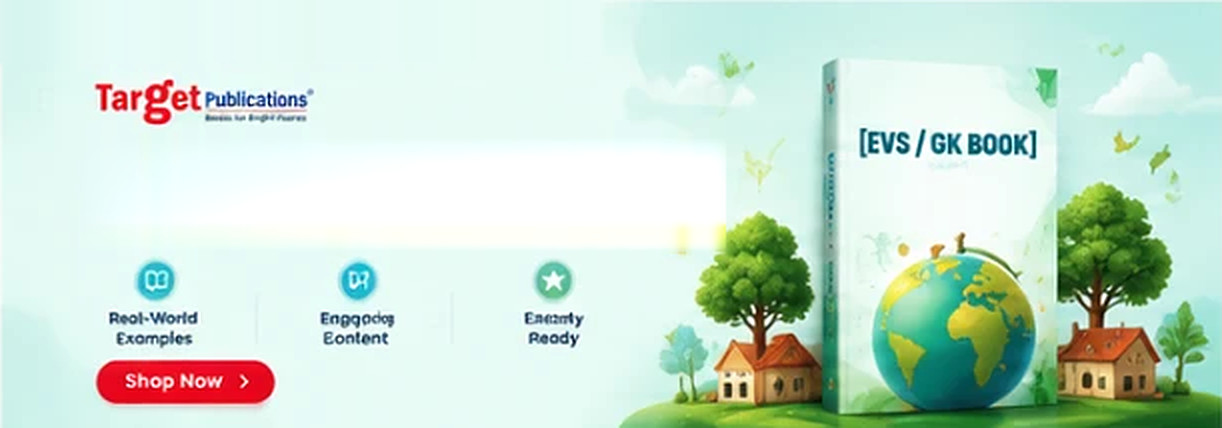
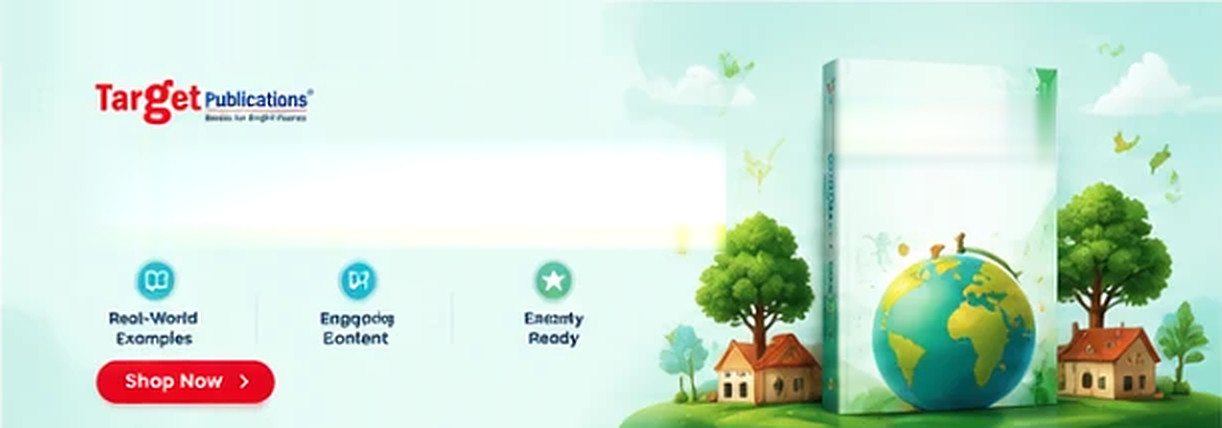
fix: real-catalogue findings (missing glyphs, kids language books, narrow covers, tall covers)

Changed region(s): [[0.6841, 0.2126, 0.8707, 0.3949]]

diff --git a/tools/prepare_templates.py b/tools/prepare_templates.py
@@ -23,11 +23,15 @@ import json
 import os
 import sys
 
-from PIL import Image, ImageFilter
+from PIL import Image, ImageDraw, ImageFilter
 
 OUT = os.path.join(os.path.dirname(os.path.abspath(__file__)), '..', 'resources', 'templates')
 SCALE = 2.0            # sheet cells are small (about 500 px wide); plates are stored at 2x
 HALO = (5, 8, 2)       # how far the patch grows left/right/top, and where its side/top edges are sampled from
+# The placeholder book carries a "[SUBJECT BOOK]" label. A product cover that is narrower than the book (a combo shot, say)
+# would leave part of it showing, so it is wiped from the plate: (left, right, top offset, bottom offset) inside the book.
+LABEL = (10, 6, 24, 60)
+LABEL_TALL = {'social-science': 74}   # its label runs to two lines
 BOOK_PAD = (2, 1)      # grow the book rectangle by this much (x, y) so no placeholder edge peeks out
 
 # key: cell in the sheet, label tab, copy zone, placeholder book
@@ -44,7 +48,9 @@ CELLS = {
     'evs-gk':         dict(cell=(1004, 450, 1617, 667), tab=(0, 0, 298, 32), zone=(46, 72, 358, 127),  book=(410, 28, 531, 210)),
 }
 # The single generic template (no label to remove); here the zone also covers the class/board pill and the tagline underline.
-MASTER = dict(key='general', zone=(180, 138, 935, 352), book=(1179, 52, 1634, 603), width=1400)
+MASTER = dict(key='general', zone=(180, 138, 935, 352), book=(1179, 52, 1634, 603), width=1400,
+              # its book cover is full of placeholders (board logo, edition, [SUBJECT NAME], [PART]): turn the face into a plain page
+              face=(1200, 56, 1630, 586))
 
 
 def near_white(p):
@@ -77,22 +83,23 @@ def lerp(a, b, t):
     return tuple(a[i] + (b[i] - a[i]) * t for i in range(3))
 
 
-def fill_patch(im, x0, y0, x1, y1):
+def fill_patch(im, x0, y0, x1, y1, halo=None):
     """Replace a rectangle by a Coons patch of its four surrounding edges (smooth gradient, no text).
 
     The lettering sits in a soft halo, so the left, right and top edges are sampled a few pixels outside it; the bottom
     edge cannot move far because the benefit icons start right below the zone.
     """
+    HALO_ = halo or HALO
     w, h = im.size
-    x0, y0, x1, y1 = x0 - HALO[0], y0 - HALO[2], x1 + HALO[0], y1
-    x0, y0 = max(HALO[0] + 2, x0), max(HALO[2] + 2, y0)
-    x1, y1 = min(w - HALO[0] - 3, x1), min(h - 3, y1)
+    x0, y0, x1, y1 = x0 - HALO_[0], y0 - HALO_[2], x1 + HALO_[0], y1
+    x0, y0 = max(HALO_[0] + 2, x0), max(HALO_[2] + 2, y0)
+    x1, y1 = min(w - HALO_[0] - 3, x1), min(h - 3, y1)
     px = im.load()
     avg = lambda pts: tuple(sum(p[i] for p in pts) / len(pts) for i in range(3))
-    top = {x: avg([px[x, y0 - HALO[2]], px[x, y0 - HALO[2] + 1]]) for x in range(x0, x1 + 1)}
+    top = {x: avg([px[x, y0 - HALO_[2]], px[x, y0 - HALO_[2] + 1]]) for x in range(x0, x1 + 1)}
     bot = {x: avg([px[x, y1 + 1], px[x, y1 + 2]]) for x in range(x0, x1 + 1)}
-    lef = {y: avg([px[x0 - HALO[1], y], px[x0 - HALO[1] + 1, y]]) for y in range(y0, y1 + 1)}
-    rig = {y: avg([px[x1 + HALO[1], y], px[x1 + HALO[1] - 1, y]]) for y in range(y0, y1 + 1)}
+    lef = {y: avg([px[x0 - HALO_[1], y], px[x0 - HALO_[1] + 1, y]]) for y in range(y0, y1 + 1)}
+    rig = {y: avg([px[x1 + HALO_[1], y], px[x1 + HALO_[1] - 1, y]]) for y in range(y0, y1 + 1)}
     tl, tr, bl, br = lef[y0], rig[y0], lef[y1], rig[y1]
     out = {}
     for y in range(y0, y1 + 1):
@@ -157,7 +164,17 @@ def frac(rect, w, h):
     return [round(rect[0] / w, 5), round(rect[1] / h, 5), round(rect[2] / w, 5), round(rect[3] / h, 5)]
 
 
-def finish(im, key, zone, book, tab, width=None):
+def blank_face(im, rect):
+    """Paint a book face as a plain, softly graded page."""
+    draw = ImageDraw.Draw(im)
+    x0, y0, x1, y1 = rect
+    for y in range(y0, y1 + 1):
+        t = (y - y0) / max(1, y1 - y0)
+        v = tuple(int(round(a + (b - a) * t)) for a, b in zip((243, 248, 255), (253, 253, 255)))
+        draw.line([(x0, y), (x1, y)], fill=v)
+
+
+def finish(im, key, zone, book, tab, width=None, label_bottom=LABEL[3], face=None):
     """im is at source resolution; rectangles are in its pixels. Returns the manifest entry."""
     w, h = im.size
     title_ink = ink(im, (zone[0], zone[1], zone[2] - 40, zone[1] + (zone[3] - zone[1]) * 5 // 9), zone)
@@ -165,6 +182,10 @@ def finish(im, key, zone, book, tab, width=None):
     if tab:
         clear_tab(im, *tab)
     fill_patch(im, *zone)
+    if face:
+        blank_face(im, face)
+    if label_bottom:
+        fill_patch(im, book[0] + LABEL[0], book[1] + LABEL[2], book[2] - LABEL[1], book[1] + label_bottom, halo=(3, 3, 3))
     bx = (book[0] - BOOK_PAD[0], book[1] - BOOK_PAD[1], book[2] + BOOK_PAD[0], book[3] + BOOK_PAD[1])
     target = (int(width), round(width * h / w)) if width else (round(w * SCALE), round(h * SCALE))
     im = im.resize(target, Image.LANCZOS).filter(ImageFilter.UnsharpMask(radius=1.4, percent=55, threshold=2))
@@ -184,9 +205,9 @@ def main(sheet_path, master_path):
         cell = sheet.crop(c['cell'])
         im, dx, dy = trim_gutter(cell)
         sh = lambda r: (r[0] - dx, r[1] - dy, r[2] - dx, r[3] - dy)
-        manifest[key] = finish(im, key, sh(c['zone']), sh(c['book']), sh(c['tab']))
+        manifest[key] = finish(im, key, sh(c['zone']), sh(c['book']), sh(c['tab']), label_bottom=LABEL_TALL.get(key, LABEL[3]))
     master = Image.open(master_path).convert('RGB')
-    manifest[MASTER['key']] = finish(master, MASTER['key'], MASTER['zone'], MASTER['book'], None, MASTER['width'])
+    manifest[MASTER['key']] = finish(master, MASTER['key'], MASTER['zone'], MASTER['book'], None, MASTER['width'], label_bottom=0, face=MASTER['face'])
 
     lines = ["<?php", "", "// Generated by tools/prepare_templates.py: do not edit by hand.", "// zone: headline + tagline area, book: where the product cover goes; both as fractions of the plate.", "", "return ["]
     for key, m in manifest.items():

diff --git a/src/Ads/Templates/TemplateLibrary.php b/src/Ads/Templates/TemplateLibrary.php
@@ -136,15 +136,19 @@ final class TemplateLibrary
             return ['science'];
         }
 
-        $found = [];
         $pool = Subjects::pool($label, $title);
+        if ($pool === ['kids'] && self::languageBook($label, $title)) {
+            return self::languages($label, $title);   // "English Grammar Book for 8+ Years' Old Kids" is still an English book
+        }
+        if ($pool === ['general'] && $title !== null && preg_match('/\bscience\b/iu', $title) && !preg_match('/\bsocial\b/iu', $title)) {
+            return ['science'];
+        }
+
+        $found = [];
         foreach ($pool as $group) {
             foreach ($group === 'languages' ? self::languages($label, $title) : (self::GROUP_TEMPLATES[$group] ?? [self::GENERAL]) as $template) {
                 $found[$template] = true;
             }
-        }
-        if ($pool === ['general'] && $title !== null && preg_match('/\bscience\b/iu', $title) && !preg_match('/\bsocial\b/iu', $title)) {
-            return ['science'];
         }
 
         return array_keys($found) ?: [self::GENERAL];
@@ -158,15 +162,41 @@ final class TemplateLibrary
         return $candidates[abs($seed) % count($candidates)];
     }
 
-    /** @return string[] */
+    /**
+     * A language book for children: the subject (or title) is a language and the title has no colouring / activity / rhymes /
+     * alphabet / nursery words, which really are children's-activity books whatever they are filed under.
+     */
+    private static function languageBook(string $label, ?string $title): bool
+    {
+        if ($title !== null && preg_match('/colou?ring|activity|rhymes?|alphabet|nursery|pre-?school|drawing|stories/iu', $title)) {
+            return false;
+        }
+
+        $groups = Subjects::groups($label);
+
+        // An unfiled book is recognised by its title, but only by the Indian languages: "English Medium" is in half the titles.
+        return in_array('languages', $groups, true)
+            || ($groups === ['general'] && $title !== null && preg_match('/\b(hindi|marathi|sanskrit)\b/iu', $title));
+    }
+
+    /**
+     * The language template: the subject label decides ("Sanskrit ... for Marathi Medium" is a Hindi-style Devanagari
+     * book, not a Marathi one); the title is only consulted when the label names no language.
+     *
+     * @return string[]
+     */
     private static function languages(string $label, ?string $title): array
     {
-        $text = mb_strtolower($label . ' ' . ($title ?? ''));
-        if (preg_match('/marathi|lokvani/u', $text)) {
-            return ['marathi'];
-        }
-        if (preg_match('/hindi|sanskrit/u', $text)) {
-            return ['hindi'];
+        foreach ([mb_strtolower($label), mb_strtolower((string) $title)] as $text) {
+            if (preg_match('/marathi|lokvani/u', $text)) {
+                return ['marathi'];
+            }
+            if (preg_match('/hindi|sanskrit/u', $text)) {
+                return ['hindi'];
+            }
+            if (preg_match('/english|grammar|vocabulary/u', $text)) {
+                return ['english'];
+            }
         }
 
         return ['english'];

diff --git a/src/Ads/Layouts/TemplateLayout.php b/src/Ads/Layouts/TemplateLayout.php
@@ -52,6 +52,8 @@ final class TemplateLayout extends AbstractLayout
 
         $fit = min($w / $mw, $h / $mh);
         $scale = min(max($w / $mw, $h / $mh), $fit * self::MAX_GROW);
+        $top = max(2, (int) round($canvas->height() * 0.02));   // a tall cover must not run off the top of the banner
+        $scale = min($scale, ($y + $h - $top) / $mh);
         $bw = (int) round($mw * $scale);
         $bh = (int) round($mh * $scale);
         $canvas->sprite($book, $x + intdiv($w, 2), $y + $h - intdiv($bh, 2), $bw, $bh);
@@ -61,8 +63,8 @@ final class TemplateLayout extends AbstractLayout
     private function copy(Canvas $canvas, AdSpec $spec, Typography $headingFont, Typography $bodyFont, array $zone, array $template): void
     {
         [$x, $y, $w, $h] = $zone;
-        $headline = trim((string) $spec->headline);
-        $tagline = trim((string) $spec->subheadline);
+        $headline = $this->printable((string) $spec->headline, $headingFont);
+        $tagline = $this->printable((string) $spec->subheadline, $bodyFont);
         if ($headline === '') {
             return;
         }
@@ -77,6 +79,27 @@ final class TemplateLayout extends AbstractLayout
             $tag = $bodyFont->fit($tagline, $w, $tagH, (int) round($tagH * 0.62), 7, 1.15, 2);
             $canvas->lines($tag['lines'], $bodyFont, $tag['size'], $x, $y + $h - $tagH + intdiv($tagH - $tag['height'], 2), $w, $template['tagline'], 'left', $tag['lineHeight']);
         }
+    }
+
+    /**
+     * Drop the characters the font has no glyph for (Devanagari in a Latin-only display font would print as empty boxes) and
+     * tidy what is left: "Hindi Sulekh 3 (संयुक्ताक्षर) Book" becomes "Hindi Sulekh 3 Book".
+     */
+    private function printable(string $text, Typography $font): string
+    {
+        if (!preg_match('/[^\x00-\x7F]/u', $text)) {
+            return trim($text);
+        }
+        $missing = $font->measure("\u{E000}", 40)[0];   // the width of the font's "no glyph" box
+        $kept = '';
+        foreach (preg_split('//u', $text, -1, PREG_SPLIT_NO_EMPTY) ?: [] as $char) {
+            if (ord($char[0]) < 0x80 || $font->measure($char, 40)[0] !== $missing) {
+                $kept .= $char;
+            }
+        }
+        $kept = preg_replace('/\(\s*\)|\[\s*\]/u', '', $kept);
+
+        return trim(preg_replace('/\s{2,}/u', ' ', $kept), " \t-–|:,");
     }
 
     /** A plain white cover carrying the title, for banners made without a product image. */

diff --git a/tests/AdBuilderTest.php b/tests/AdBuilderTest.php
@@ -710,6 +710,27 @@ final class AdBuilderTest extends TestCase
         }
     }
 
+    public function test_characters_the_font_cannot_draw_are_left_out_instead_of_printing_boxes(): void
+    {
+        $make = fn (string $title, string $tagline) => AdBuilder::make()->size(...TemplateLibrary::dimensions('hindi', 600))->images($this->packshot())
+            ->template('hindi')->font($this->font)->headline($title)->subheadline($tagline)->toPng();
+
+        $this->assertSame(
+            $make('Hindi Sulekh 3 Book', 'Based on NCERT Textbook'),
+            $make('Hindi Sulekh 3 (संयुक्ताक्षर ज्ञान) Book', 'Based on NCERT Textbook गंगा')
+        );
+    }
+
+    public function test_a_language_book_for_kids_keeps_its_language_template_but_activity_books_do_not(): void
+    {
+        $this->assertSame('english', TemplateLibrary::pickFor('Grammar', 0, 'English Grammar Book C for 8+ Years\' Old Kids'));
+        $this->assertSame('english', TemplateLibrary::pickFor('Vocabulary', 0, 'Blossom English Vocabulary Book for 5 to 7 Year Old Kids'));
+        $this->assertSame('hindi', TemplateLibrary::pickFor('Some new subject', 0, 'Hindi Sulekh 3 Book for Kids'));
+        $this->assertSame('evs-gk', TemplateLibrary::pickFor('English', 0, 'Alphabet Activity Book for Kids'));
+        $this->assertSame('evs-gk', TemplateLibrary::pickFor('Art and Craft', 0, 'Crafty Minds Art and Craft Book Kits for Senior KG kids'));
+        $this->assertSame('hindi', TemplateLibrary::pickFor('Sanskrit', 0, 'Sanskrit Aamod Notes for English, Semi-English & Marathi Medium'), 'the subject, not the medium, decides');
+    }
+
     public function test_a_banner_without_an_image_gets_a_plain_cover_rather_than_the_placeholder(): void
     {
         $img = $this->banner('chemistry', 'Chemistry Notes', null, false);

diff --git a/CHANGELOG.md b/CHANGELOG.md
@@ -1,5 +1,16 @@
 # Changelog
 
+## 2.0.1
+
+### Fixed
+- Titles with characters the font cannot draw (Devanagari in a Latin display font) printed empty boxes; those characters are now left out.
+- A language book for kids ("English Grammar Book for 8+ Years' Old Kids") keeps its English / Hindi / Marathi template; only
+  colouring, activity, rhymes, alphabet, nursery and drawing books take the EVS / GK one. The subject decides the language
+  template, not "Marathi Medium" in the title.
+- The placeholder "[SUBJECT BOOK]" label no longer shows beside a cover narrower than the template's book (combo shots), and the
+  generic template's book face is a plain page.
+- A tall cover no longer runs off the top of the banner.
+
 ## 2.0.0
 
 ### Changed (breaking)
